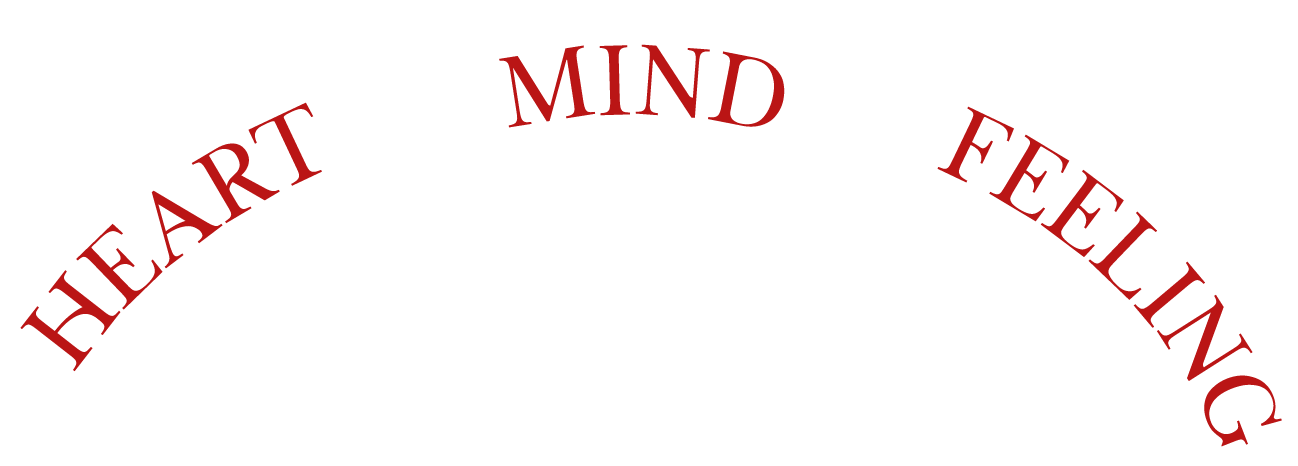
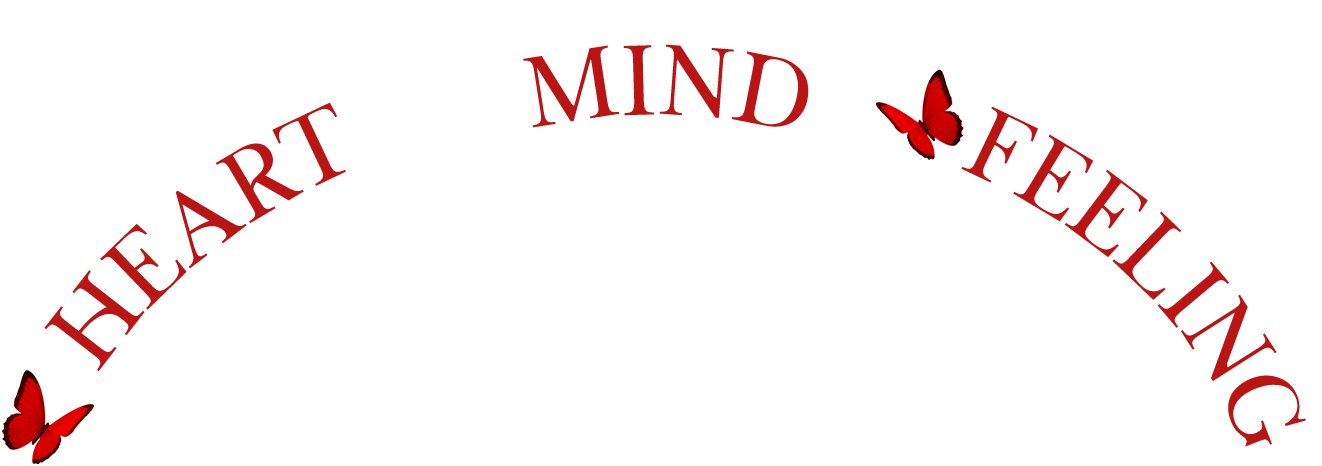
Improve landing section layering and responsive spacing adjustments.
This updates section stacking, mobile spacing, and decorative element placement across Hero, LipCards, PhotoBanner, and Waitlist while adding a persistent bottom-right cookie consent dialog.

diff --git a/src/components/CookieConsent.tsx b/src/components/CookieConsent.tsx
@@ -1,0 +1,64 @@
+import { useEffect, useState } from "react";
+import { Link } from "react-router-dom";
+import { Button } from "@/components/ui/button";
+
+const COOKIE_CONSENT_KEY = "maeum-cookie-consent";
+
+const CookieConsent = () => {
+  const [isVisible, setIsVisible] = useState(false);
+
+  useEffect(() => {
+    if (typeof window === "undefined") return;
+    const savedConsent = window.localStorage.getItem(COOKIE_CONSENT_KEY);
+    setIsVisible(savedConsent !== "accepted" && savedConsent !== "declined");
+  }, []);
+
+  const handleConsent = (value: "accepted" | "declined") => {
+    if (typeof window !== "undefined") {
+      window.localStorage.setItem(COOKIE_CONSENT_KEY, value);
+    }
+    setIsVisible(false);
+  };
+
+  if (!isVisible) return null;
+
+  return (
+    <aside
+      className="fixed bottom-4 right-4 z-[130] w-[calc(100%-2rem)] max-w-sm rounded-xl border border-black/10 bg-[#fdf5df] p-4 shadow-[0_16px_36px_rgba(0,0,0,0.28)]"
+      role="dialog"
+      aria-live="polite"
+      aria-label="Cookie consent"
+    >
+      <p className="font-geist text-sm text-[#4d1a12]">
+        We use cookies to improve your experience and analyze traffic. By clicking Accept, you agree to our use
+        of cookies.
+      </p>
+      <div className="mt-3 flex items-center justify-between gap-2">
+        <Link to="/privacy-policy" className="text-xs font-geist text-[#8f2d24] underline underline-offset-2">
+          Learn more
+        </Link>
+        <div className="flex items-center gap-2">
+          <Button
+            type="button"
+            size="sm"
+            variant="outline"
+            className="border-[#cfa67b] bg-[#fff7e8] text-[#7f2b20] hover:bg-[#f8ebd0]"
+            onClick={() => handleConsent("declined")}
+          >
+            Decline
+          </Button>
+          <Button
+            type="button"
+            size="sm"
+            className="bg-[#c81b17] text-[#f6ead0] hover:bg-[#b21713]"
+            onClick={() => handleConsent("accepted")}
+          >
+            Accept
+          </Button>
+        </div>
+      </div>
+    </aside>
+  );
+};
+
+export default CookieConsent;

diff --git a/src/pages/Index.tsx b/src/pages/Index.tsx
@@ -6,8 +6,6 @@ import heroMobile from "@/assets/head-banner-mobile.png";
 import kiss from "@/assets/KISS.png";
 import logoCream from "@/assets/logo-cream-color.png";
 import bannerText from "@/assets/banner-text.png";
-import butterfly1 from "@/assets/butterfly-1.png";
-import butterfly2 from "@/assets/butterfly-2.png";
 import Story from "@/components/sections/Story";
 import LipCards from "@/components/sections/LipCards";
 import PhotoBanner from "@/components/sections/PhotoBanner";
@@ -94,28 +92,6 @@ const Index = () => {
                   alt="Heart Mind Feeling"
                   className="absolute left-1/2 -translate-x-1/2 top-full mt-3 lg:mt-[105px] w-[60%] h-auto hidden lg:block"
                 />
-              </div>
-              <div className="relative w-full mt-2">
-                <img
-                  src={butterfly1}
-                  alt=""
-                  aria-hidden="true"
-                  className="absolute left-0 top-1/2 -translate-y-1/2 w-14 h-14 md:w-20 md:h-20 object-contain animate-float"
-                  style={{ animationDuration: "4.8s" }}
-                />
-                <button
-                  type="button"
-                  aria-label="Decorative butterfly"
-                  className="absolute right-0 top-1/2 -translate-y-1/2 z-20 cursor-pointer"
-                >
-                  <img
-                    src={butterfly2}
-                    alt=""
-                    aria-hidden="true"
-                    className="w-14 h-14 md:w-20 md:h-20 object-contain animate-float"
-                    style={{ animationDuration: "5.6s", animationDelay: "0.4s" }}
-                  />
-                </button>
               </div>
             </div>
           </div>

diff --git a/src/components/sections/Waitlist.tsx b/src/components/sections/Waitlist.tsx
@@ -33,7 +33,7 @@ const Waitlist = ({ onOpenPopup }: WaitlistProps) => {
   return (
     <section
       ref={ref}
-      className="relative z-0 -mx-[var(--page-padding)] px-6 pt-12 pb-12 md:pt-[240px] md:pb-28 md:-mt-[140px]"
+      className="relative z-10 -mx-[var(--page-padding)] px-6 pt-4 pb-12 md:pt-[240px] md:pb-28 md:-mt-[290px]"
       style={{
         backgroundImage: `url(${redBg})`,
         backgroundSize: "cover",
@@ -42,7 +42,7 @@ const Waitlist = ({ onOpenPopup }: WaitlistProps) => {
       }}
       aria-label="Join the waitlist"
     >
-      <div className="relative max-w-[1040px] mx-auto">
+      <div className="relative max-w-[1040px] mx-auto pt-[100px]">
         <div className="relative waitlist-fade w-full h-[650px] md:h-[640px] rounded-3xl bg-transparent px-8 py-12 md:px-16 md:py-16">
           <img
             src={postcardMobile}
@@ -103,15 +103,15 @@ const Waitlist = ({ onOpenPopup }: WaitlistProps) => {
             aria-hidden="true"
             className="absolute -bottom-8 -left-6 md:-left-12 w-32 md:w-48 -rotate-12"
           />
-        </div>
 
-        {/* Floating butterfly */}
-        <Butterfly
-          variant={2}
-          className="absolute -top-12 right-0 md:right-4"
-          size={112}
-          delay={0.6}
-        />
+          {/* Anchored to postcard so it moves with layout (e.g. top padding gap) */}
+          <Butterfly
+            variant={2}
+            className="absolute -top-12 right-0 md:right-4 z-20"
+            style={{ width: "clamp(96px, 22vw, 168px)" }}
+            delay={0.6}
+          />
+        </div>
       </div>
     </section>
   );

diff --git a/src/components/sections/LipCards.tsx b/src/components/sections/LipCards.tsx
@@ -26,7 +26,7 @@ const LipCards = () => {
   }, []);
 
   return (
-    <section ref={ref} className="relative z-10 md:mt-[100px] mb-0" aria-label="Lip preview">
+    <section ref={ref} className="relative z-50 -mt-[56px] md:z-10 md:mt-[100px] mb-0" aria-label="Lip preview">
       <div className="relative w-full max-w-[1040px] mx-auto">
         <div className="flex w-full items-center justify-center">
           <div className="lip-card group relative w-full max-w-[1040px]">
@@ -34,14 +34,14 @@ const LipCards = () => {
               src={chamomile}
               alt=""
               aria-hidden="true"
-              className="pointer-events-none select-none absolute -top-12 left-2 md:-top-16 md:-left-6 lg:-top-10 w-16 md:w-20 lg:w-[108px] h-auto animate-float z-20"
+              className="pointer-events-none select-none absolute -top-2 left-2 md:-top-16 md:-left-6 lg:-top-10 w-16 md:w-20 lg:w-[108px] h-auto animate-float z-10 md:z-20"
               style={{ animationDuration: "5.2s" }}
             />
             <img
               src={butterfly}
               alt=""
               aria-hidden="true"
-              className="pointer-events-none select-none absolute -top-10 right-2 md:-top-16 md:-right-6 lg:-top-10 w-14 md:w-20 lg:w-[108px] h-auto animate-float z-20"
+              className="pointer-events-none select-none absolute -top-1 right-2 md:-top-16 md:-right-6 lg:-top-10 w-14 md:w-20 lg:w-[108px] h-auto animate-float z-10 md:z-20"
               style={{ animationDuration: "4.8s", animationDelay: "0.3s" }}
             />
             <img

diff --git a/src/components/sections/PhotoBanner.tsx b/src/components/sections/PhotoBanner.tsx
@@ -3,10 +3,22 @@ import Butterfly from "@/components/Butterfly";
 
 const PhotoBanner = () => {
   return (
-    <section className="relative z-20 -mt-[30px] mb-12 md:mb-16" aria-label="Seoul to Skin">
-      <div className="relative max-w-[1040px] mx-auto rounded-2xl overflow-hidden">
-        <img src={banner} alt="Maeum — Seoul to Skin" className="w-full h-auto block" />
-        <Butterfly variant={1} className="absolute bottom-6 left-4 md:left-12" size={48} delay={0.8} />
+    <section className="relative z-40 -mt-[30px] mb-12 md:mb-16" aria-label="Seoul to Skin">
+      <div className="relative max-w-[1040px] mx-auto">
+        <div className="rounded-2xl overflow-hidden">
+          <img src={banner} alt="Maeum — Seoul to Skin" className="w-full h-auto block" />
+        </div>
+        <div
+          className="absolute z-10 -left-2 md:-left-6 lg:-left-8 top-[11%] md:top-[13%] rotate-[22deg] origin-top-left pointer-events-none"
+          aria-hidden="true"
+        >
+          <Butterfly
+            variant={1}
+            className="relative"
+            style={{ width: "clamp(96px, 22vw, 168px)" }}
+            delay={0.8}
+          />
+        </div>
       </div>
     </section>
   );

diff --git a/src/App.tsx b/src/App.tsx
@@ -4,6 +4,7 @@ import { BrowserRouter, Route, Routes } from "react-router-dom";
 import { Toaster as Sonner } from "@/components/ui/sonner";
 import { Toaster } from "@/components/ui/toaster";
 import { TooltipProvider } from "@/components/ui/tooltip";
+import CookieConsent from "@/components/CookieConsent";
 import Index from "./pages/Index.tsx";
 import NotFound from "./pages/NotFound.tsx";
 import PrivacyPolicy from "./pages/PrivacyPolicy.tsx";
@@ -68,6 +69,7 @@ const App = () => {
               {/* ADD ALL CUSTOM ROUTES ABOVE THE CATCH-ALL "*" ROUTE */}
               <Route path="*" element={<NotFound />} />
             </Routes>
+            <CookieConsent />
           </BrowserRouter>
         </div>
       </TooltipProvider>
